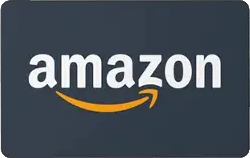
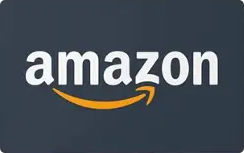
Shop

diff --git a/src/app/shop/page.js b/src/app/shop/page.js
@@ -45,8 +45,8 @@ export default function Home() {
                     <img
                       src={CARD_IMG}
                       alt={`Carte cadeau Amazon ${item.amount}€`}
-                      width={250}
-                      height={158}
+                      width={244}
+                      height={153}
                       className="w-full max-w-[220px] h-auto drop-shadow-xl transition-transform duration-200 group-hover:scale-105"
                     />
                   </div>
@@ -86,7 +86,7 @@ export default function Home() {
             <h3 className="text-white text-lg font-bold mb-4">Confirm purchase</h3>
             <div className="flex items-center gap-4 mb-6">
               {/* eslint-disable-next-line @next/next/no-img-element */}
-              <img src={CARD_IMG} alt="" width={250} height={158} className="w-28 h-auto" />
+              <img src={CARD_IMG} alt="" width={244} height={153} className="w-28 h-auto" />
               <div>
                 <p className="text-white font-semibold text-sm">Amazon Gift Card</p>
                 <p className="text-[#D6C48A] text-lg font-bold">{pending.amount} €</p>
